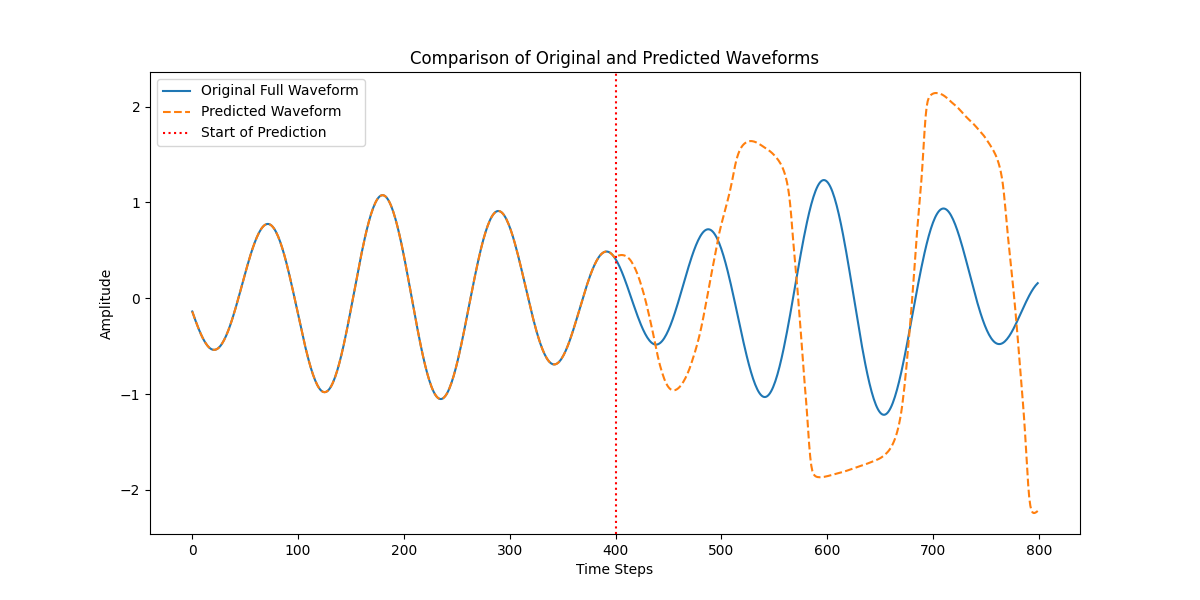
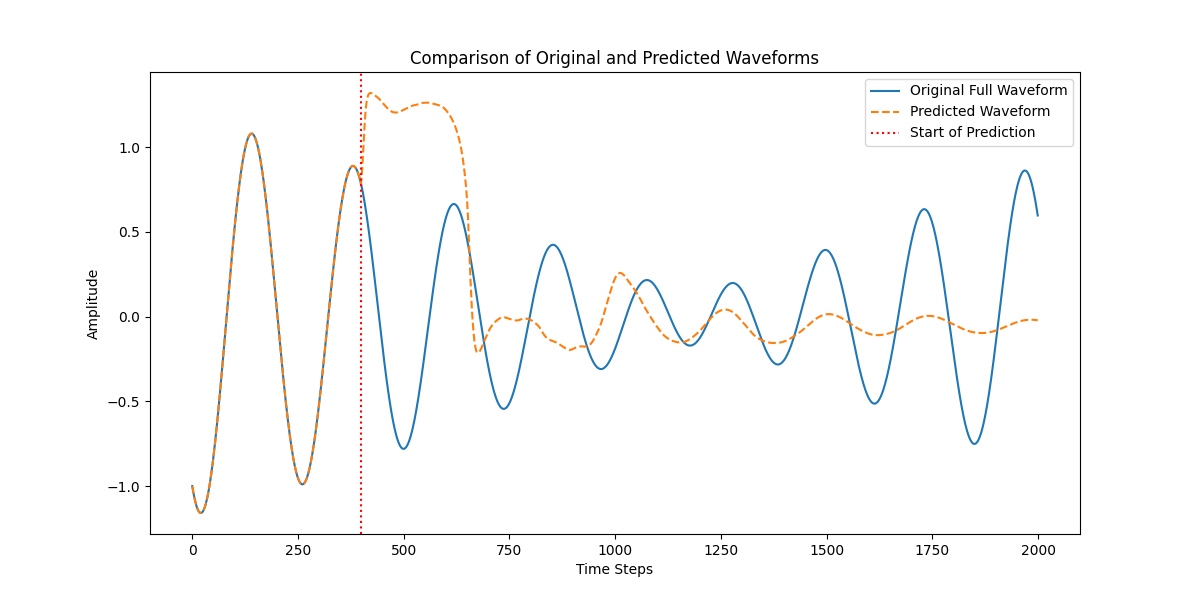
working really well

diff --git a/playground/playground.py b/playground/playground.py
@@ -2,6 +2,7 @@ import torch
 import torch.nn as nn
 import numpy as np
 import matplotlib.pyplot as plt
+import wandb
 
 device = torch.device("mps" if torch.backends.mps.is_available() else "cpu")
 print(f"Using device: {device}")
@@ -79,6 +80,7 @@ def train(model, dataloader, loss_fn, optimizer, num_epochs):
             optimizer.step()
             total_loss += loss.item()
         print(f'Epoch {epoch+1}: Loss {total_loss / len(dataloader)}')
+        wandb.log({"loss": total_loss / len(dataloader)})
 
 
 def prepare_data(waveforms, base_sequence_length):
@@ -105,11 +107,19 @@ def prepare_data(waveforms, base_sequence_length):
 
 
 if __name__ == "__main__":
-    num_epochs = 30
-    num_sequences = 10
+    wandb.init(
+        project="transformer-poc",
+        config={
+            "architecture": "initial",
+            "dataset": "waves",
+        }
+    )
+
+    num_epochs = 100
+    num_sequences = 2
     base_sequence_length = 400  # Consistent sequence length for training and inference
-    full_sequence_length = base_sequence_length * 2  # Longer sequence to enable sliding window
-    num_modes = 3
+    full_sequence_length = base_sequence_length * 5  # Longer sequence to enable sliding window
+    num_modes = 2
     freq_range = (5, 10)
     amp_range = (0.5, 1.0)
     phase_range = (0, 2 * np.pi)
